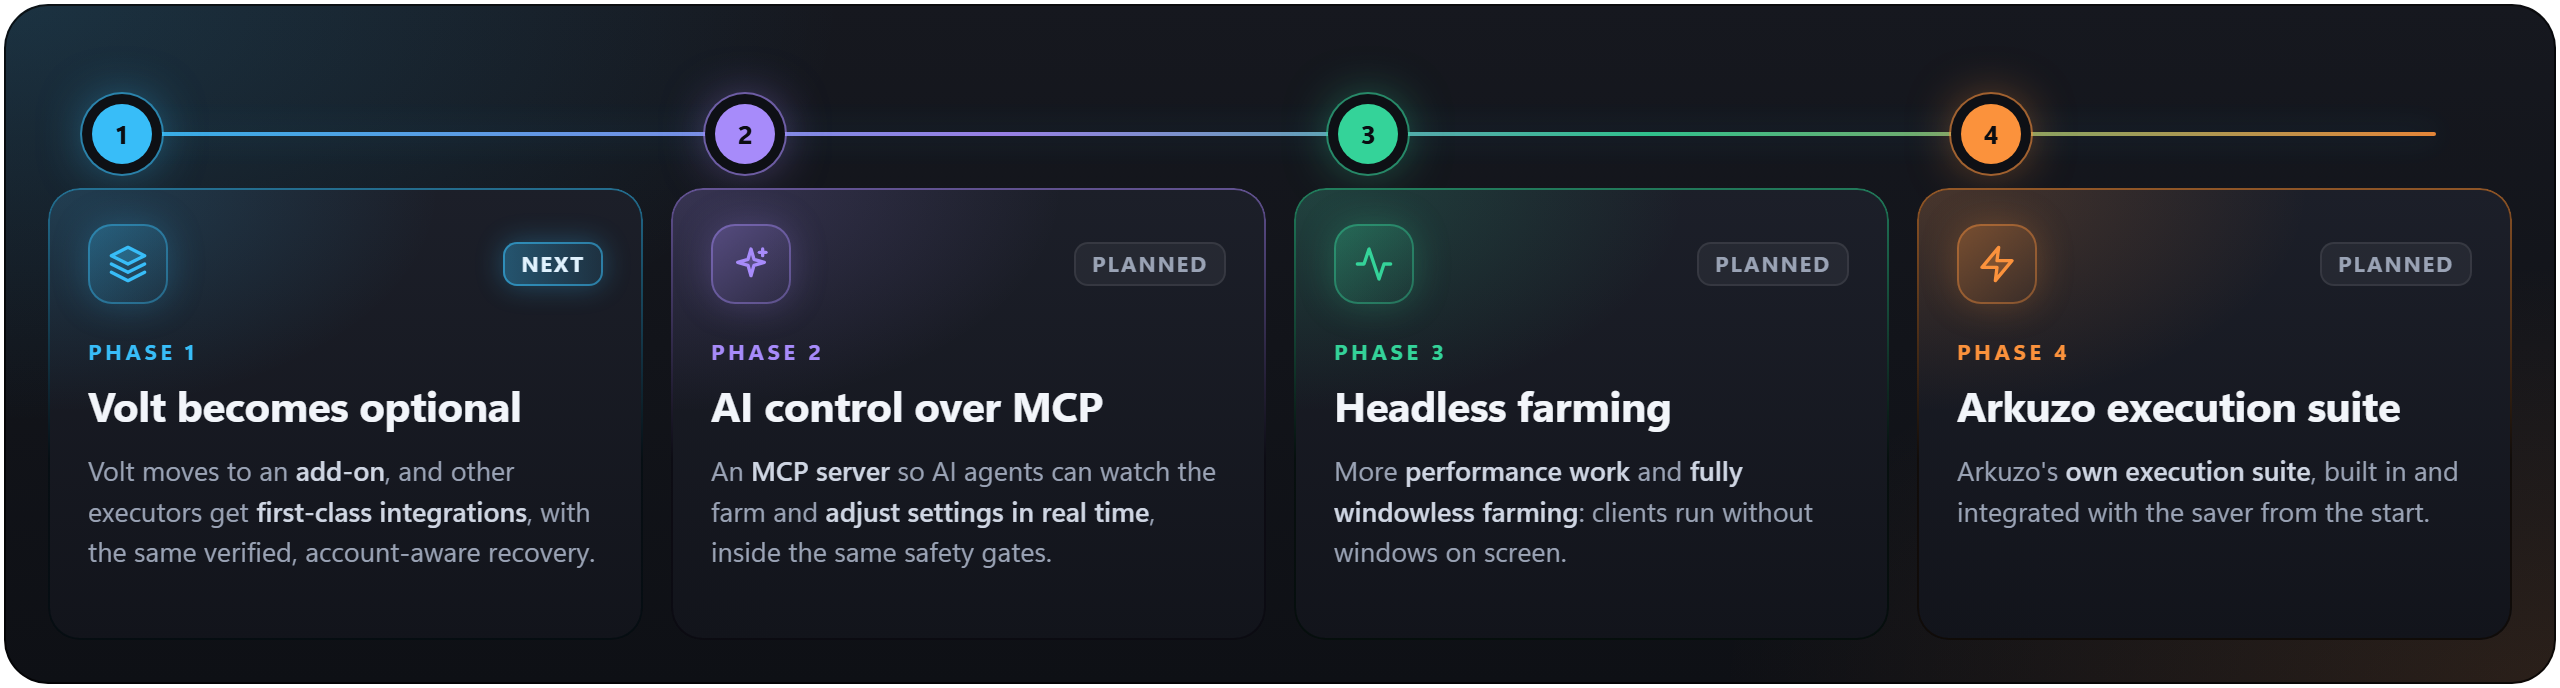
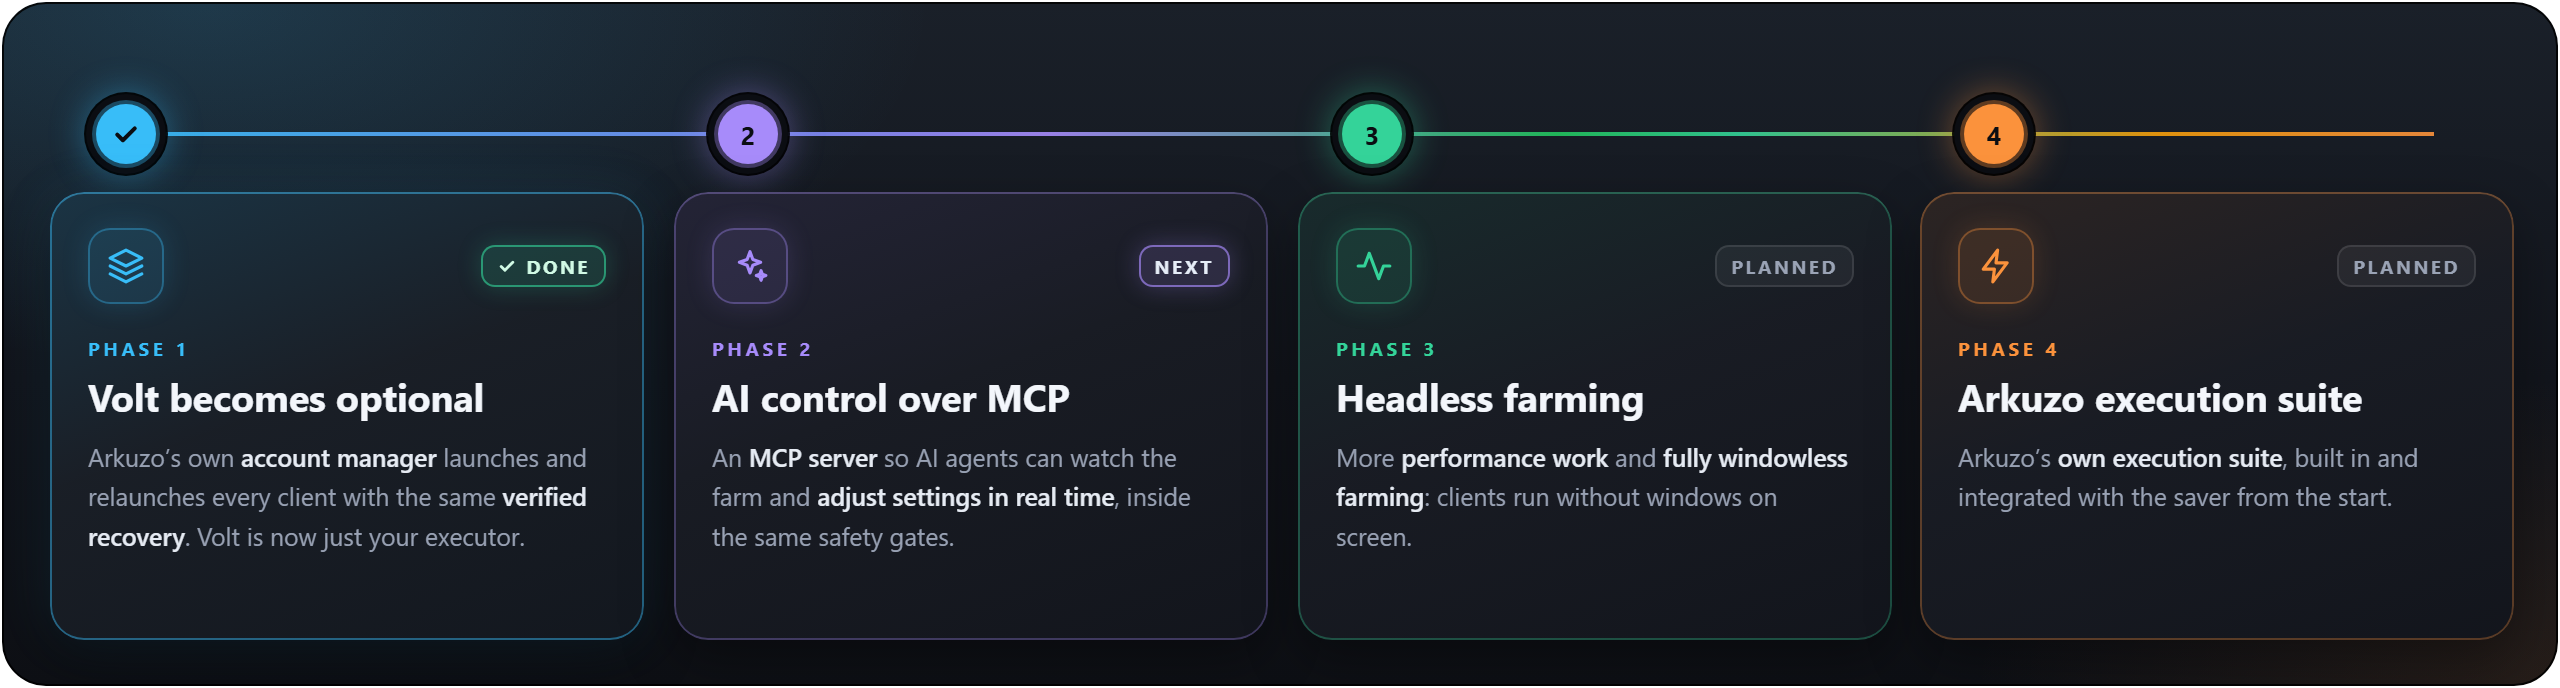
docs(readme): Volt is optional now; roadmap phase 1 done
- Roadmap: a short introduction; phase 1 (Volt becomes optional) is
  marked done with what shipped (Arkuzo's own account manager), and what
  is still open (executors other than Volt); phase 2 is next. The
  roadmap picture is re-rendered to match.
- Hero and stats pictures no longer say accounts come back "through
  Volt"; the stats card shows the real 90 s warm-up.
- Text fixes: Volt-optional badge, 90 s warm-up (not 5 minutes), 88%
  commit threshold (not 82%), remote-desktop freeze notes, cookie-dead
  accounts for both launchers, Python requirement for the Control
  Center, and a link to the remote-desktop page.

diff --git a/README.md b/README.md
@@ -7,17 +7,17 @@
 [![Version](https://img.shields.io/badge/version-2.1.5-38bdf8?style=for-the-badge&labelColor=12141b)](CHANGELOG.md)
 [![Windows x64](https://img.shields.io/badge/Windows-x64-818cf8?style=for-the-badge&labelColor=12141b)](#requirements)
 [![PowerShell 5.1](https://img.shields.io/badge/PowerShell-5.1-a78bfa?style=for-the-badge&labelColor=12141b)](#requirements)
-[![Volt integration](https://img.shields.io/badge/Volt-integration-34d399?style=for-the-badge&labelColor=12141b)](#recovery-is-deliberately-conservative)
+[![Volt optional](https://img.shields.io/badge/Volt-optional-34d399?style=for-the-badge&labelColor=12141b)](docs/accounts.md)
 
 ### [**⬇&nbsp; Download ArkuzoMemorySaver.exe**](https://github.com/arkuzodev/arkuzo-memory-saver/releases/latest/download/ArkuzoMemorySaver.exe)
 
-[Releases](https://github.com/arkuzodev/arkuzo-memory-saver/releases/latest) &nbsp;·&nbsp; [Configuration](docs/configuration.md) &nbsp;·&nbsp; [Troubleshooting](docs/troubleshooting.md) &nbsp;·&nbsp; [Accounts without Volt](docs/accounts.md) &nbsp;·&nbsp; [Farm-freeze recovery](docs/farm-freeze-recovery.md) &nbsp;·&nbsp; [Roadmap](#roadmap) &nbsp;·&nbsp; [Changelog](CHANGELOG.md)
+[Releases](https://github.com/arkuzodev/arkuzo-memory-saver/releases/latest) &nbsp;·&nbsp; [Configuration](docs/configuration.md) &nbsp;·&nbsp; [Troubleshooting](docs/troubleshooting.md) &nbsp;·&nbsp; [Accounts without Volt](docs/accounts.md) &nbsp;·&nbsp; [Farm-freeze recovery](docs/farm-freeze-recovery.md) &nbsp;·&nbsp; [Remote desktop](docs/remote-desktop.md) &nbsp;·&nbsp; [Roadmap](#roadmap) &nbsp;·&nbsp; [Changelog](CHANGELOG.md)
 
 </div>
 
 <br>
 
-<img src="docs/images/readme/stats.png" alt="Farm-wide freezes back in game in about 2.5 min on average (replay), 600 MB soft target per client, one verified Volt relaunch at a time, a four-file checksummed runtime" width="100%">
+<img src="docs/images/readme/stats.png" alt="Farm-wide freezes back in game in about 2.5 min on average (replay), 600 MB soft target per client after a 90 s warm-up, one verified relaunch at a time, a four-file checksummed runtime" width="100%">
 
 <sub>The 2.5 min is the average per account when the four logged farm-wide freezes (23–27 Oct) are replayed against v2.1.5; the logs showed 5.8 min. See [farm-freeze recovery](docs/farm-freeze-recovery.md).</sub>
 
@@ -33,14 +33,14 @@
 <td width="50%" valign="top">
 <img src="docs/images/readme/feature-trim.svg" width="44" align="left" hspace="10" alt="">
 <b>Careful working-set trimming</b><br>
-<sub>600 MB soft target, a 5-minute warm-up per client and a 45 s trim interval. Loading, frozen and startup-error clients are skipped.</sub>
+<sub>600 MB soft target, a 90 s warm-up per client and a 45 s trim interval. Loading, frozen and startup-error clients are skipped.</sub>
 </td>
 </tr>
 <tr>
 <td valign="top">
 <img src="docs/images/readme/feature-freeze.svg" width="44" align="left" hspace="10" alt="">
 <b>Freeze, hang and kick recovery</b><br>
-<sub>A farm-wide freeze is confirmed after 35 s and the frozen clients are closed one every 20 s, so Volt relaunches them cleanly. Kicked and frozen clients that quit on their own are queued too.</sub>
+<sub>A farm-wide freeze is confirmed after 35 s (20 s right after a remote-desktop disconnect), and the frozen clients are closed one every 20 s so each account relaunches cleanly. Kicked and frozen clients that quit on their own are queued too.</sub>
 </td>
 <td valign="top">
 <img src="docs/images/readme/feature-relaunch.svg" width="44" align="left" hspace="10" alt="">
@@ -75,7 +75,7 @@
 </table>
 
 > [!NOTE]
-> **600 MB is a soft target, not a hard cap.** Trimming lowers resident RAM for a while; it doesn't free private allocations or fix a leak. The 82% OS commit threshold picks recovery candidates; it is not a promise against crashes.
+> **600 MB is a soft target, not a hard cap.** Trimming lowers resident RAM for a while; it doesn't free private allocations or fix a leak. The 88% OS commit threshold picks recovery candidates; it is not a promise against crashes.
 
 ## The Control Center
 
@@ -108,9 +108,9 @@ The launcher opens it for you (it needs Python 3 on `PATH`); in a source checkou
 | <kbd>2</kbd> | **Run it.** The first start downloads the latest stable runtime, checks its SHA-256 and installs it. |
 | <kbd>3</kbd> | **Add your accounts** on the Control Center's Accounts page (cookie or browser sign-in), set the place, and press **Start farm**. Using Volt's account manager instead works too. |
 | <kbd>4</kbd> | **Tune** `data/config.json` with the [configuration guide](docs/configuration.md), or use the Control Center's Settings page. |
-| <kbd>5</kbd> | **Give each new client its five-minute warm-up** before expecting regular trimming. |
+| <kbd>5</kbd> | **Give each new client its 90-second warm-up** before expecting regular trimming. |
 
-Monitoring and trimming work without Python or Volt. Without them, recovery stays off: the saver never closes a client it can't bring back.
+Monitoring and trimming work on their own. Recovery needs something that can bring a client back, Arkuzo's account manager or Volt's; without one it stays off, because the saver never closes a client it can't bring back.
 
 ```mermaid
 flowchart LR
@@ -156,15 +156,15 @@ flowchart LR
 - **With Volt, its relaunch delay stays at 30 s or more;** a larger delay you set is kept. Missing-account retries back off for 90–900 s, with cooldowns and hourly budgets that survive saver restarts.
 - **A restore must prove itself:** a new, exactly mapped process, a connected launcher socket, a responsive window without errors and matching server-join evidence, held for a continuous confirmation window.
 - **Farm-wide freezes** (in the logs, Chrome Remote Desktop disconnects and display events) are handled as one event, with closes paced so Volt doesn't show its "Roblox started before Volt could connect" notice. Switch it off with `health.farm_freeze_enabled`.
-- **Remote desktop:** a Chrome Remote Desktop disconnect freezes every client. The saver recognises it and recycles the farm sooner, warns you in the Control Center while a session is connected, and has a "Leave Remote Desktop safely" button for RDP. See [docs/remote-desktop.md](docs/remote-desktop.md).
+- **Remote desktop:** in the logs, 12 of 14 Chrome Remote Desktop disconnects with clients running froze them. The saver recognises a disconnect and recycles the farm sooner, never hangs on a frozen client's log, warns you in the Control Center while a session is connected (minimise it instead of disconnecting), and has a "Leave Remote Desktop safely" button for RDP. See [remote desktop disconnects](docs/remote-desktop.md).
 
 <details>
 <summary><b>Cookie-dead accounts</b></summary>
 <br>
 
-Volt's red cross means a dead account session. The saver shows these accounts in red as **`COOKIE DEAD`**. A dead session can come from expiry, revocation, a challenge or another sign-in problem; it is not proof of a ban.
+A cookie Roblox rejects (Arkuzo's cookie check, or Volt's red cross) means a dead account session. The saver shows these accounts in red as **`COOKIE DEAD`**. A dead session can come from expiry, revocation, a challenge or another sign-in problem; it is not proof of a ban.
 
-A verified idle dead account is paused and left out of launch requests. Its recovery history is kept separately so it doesn't hold the handoff gate for healthy accounts. If a process, launch or identity is uncertain, the gate stays closed. Restore the session in Volt yourself; the saver resumes once the account checks out again. Newly imported accounts with no launch history are shown but never activated automatically.
+A verified idle dead account is paused and left out of launch requests. Its recovery history is kept separately so it doesn't hold the handoff gate for healthy accounts. If a process, launch or identity is uncertain, the gate stays closed. Sign the account in again yourself, on the Accounts page or in Volt; the saver resumes once it checks out again. Newly imported accounts with no launch history are shown but never activated automatically.
 
 </details>
 
@@ -188,7 +188,8 @@ The readiness checks above are criteria for counting a restore, not an overnight
 | **System** | Windows x64 with Windows PowerShell 5.1. No separate .NET install; the launcher is self-contained. |
 | **Folder** | A writable folder for `ArkuzoMemorySaver.exe`, `app/` and `data/`. |
 | **Network** | Internet for the first runtime download and update checks. |
-| **Accounts** | Arkuzo accounts need nothing extra (browser sign-in uses Edge or Chrome). With Volt instead: Python 3 on `PATH` and a running Volt with Account Manager reachable. |
+| **Python** | Python 3.8 or newer on `PATH` for the Control Center, and with it the account manager. Without it the launcher runs the console saver: monitoring and trimming only. |
+| **Accounts** | Arkuzo accounts need nothing else (browser sign-in uses Edge or Chrome). With Volt instead: a running Volt with its Account Manager reachable. |
 
 <details>
 <summary><b>Upgrading a legacy installation</b></summary>
@@ -200,12 +201,14 @@ If `data/config.json` doesn't exist and a `config.json` sits beside `ArkuzoMemor
 
 ## Roadmap
 
-<img src="docs/images/readme/roadmap.png" alt="Roadmap: 1 Volt becomes optional, 2 AI control over MCP, 3 headless farming, 4 Arkuzo execution suite" width="100%">
+Arkuzo started as a memory saver bolted onto Volt. The roadmap turns it into a farm runner of its own, in four phases, each built on the same rule as the saver today: nothing is closed unless it can be brought back, verified. **Phase 1 is done**; phase 2 is next.
+
+<img src="docs/images/readme/roadmap.png" alt="Roadmap: 1 Volt becomes optional (done), 2 AI control over MCP (next), 3 headless farming, 4 Arkuzo execution suite" width="100%">
 
 | Phase | Goal | What it means |
 | :---: | :--- | :--- |
-| <kbd>1</kbd> **Next** | **Volt becomes optional** | Volt moves to an add-on, and other executors get first-class integrations, with the same verified, account-aware recovery. |
-| <kbd>2</kbd> | **AI control over MCP** | An MCP server so AI agents can watch the farm and adjust settings in real time, inside the same safety gates. |
+| <kbd>1</kbd> **Done** | **Volt becomes optional** | Arkuzo's own [account manager](docs/accounts.md) adds accounts, starts the farm and relaunches every client, with the same verified, account-aware recovery. Volt is now just your executor. Still open from this phase: integrations for executors other than Volt. |
+| <kbd>2</kbd> **Next** | **AI control over MCP** | An MCP server so AI agents can watch the farm and adjust settings in real time, inside the same safety gates. |
 | <kbd>3</kbd> | **Headless farming** | More performance work and fully windowless farming: clients run without windows on screen. |
 | <kbd>4</kbd> | **Arkuzo execution suite** | Arkuzo's own execution suite, built in and integrated with the saver from the start. |
 
